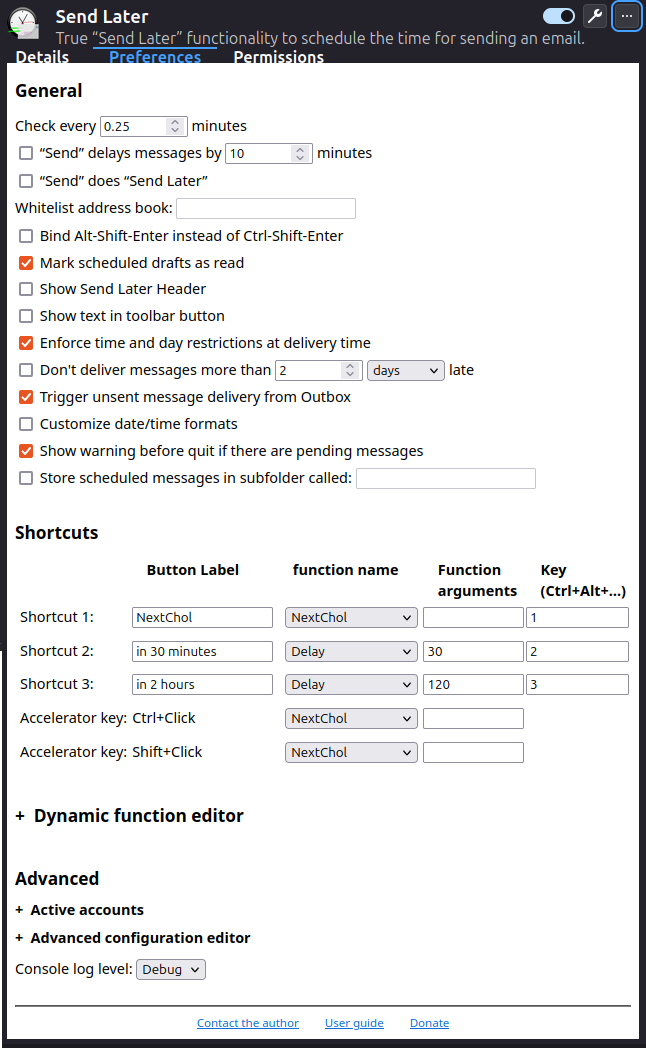
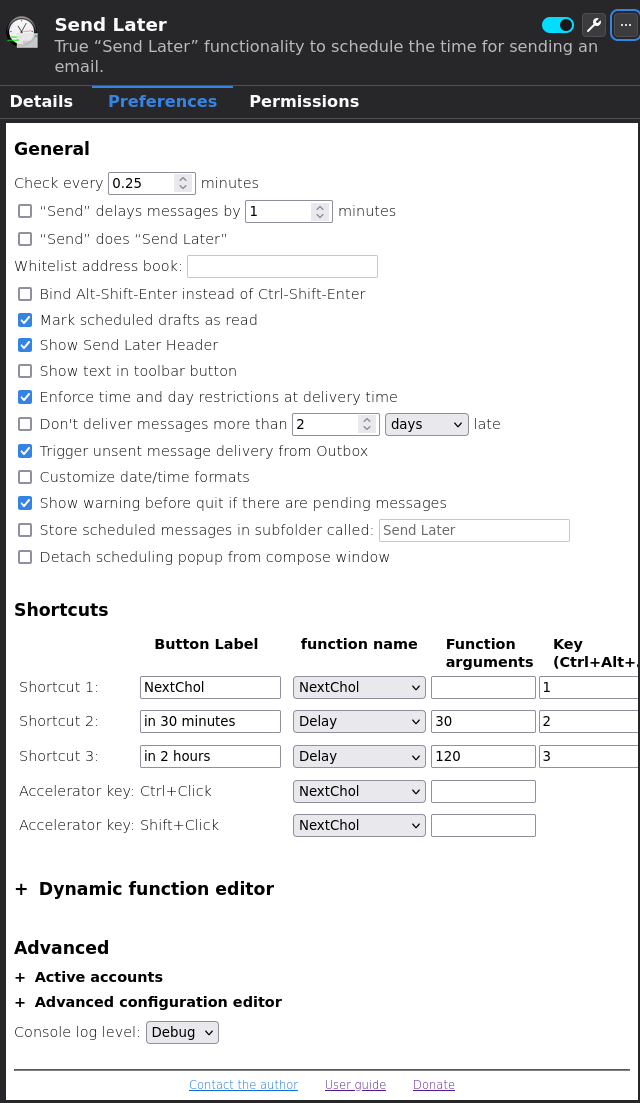
Document "Detach scheduling popup from compose window" preference

Changed region(s): [[0.0, 0.0, 1.0, 1.0]]

diff --git a/index.md b/index.md
@@ -473,6 +473,14 @@ Note that due to a deficiency in Gmail's IMAP implementation, this
 does not work for Gmail accounts unless you configure Thunderbird to
 store drafts in a folder other than the default "[Gmail]/Drafts".
 
+### Detach scheduling popup from compose window
+
+If you find that the Send Later scheduling window disappears or flies off the screen immediately after it is opened, and the workarounds described in [this bug ticket](bug663) don't work for you, you can enable this preference to work around the problem by telling Send Later to detach the scheduling window from the button.
+
+(This preference is only visible in Thunderbird 128 and newer. The scheduling window is always detached from the button in older versions of Thunderbird.)
+
+[bug663]: https://github.com/Extended-Thunder/send-later/issues/663
+
 ### Shortcut buttons
 
 In addition to these main settings, you can change the behavior of the
